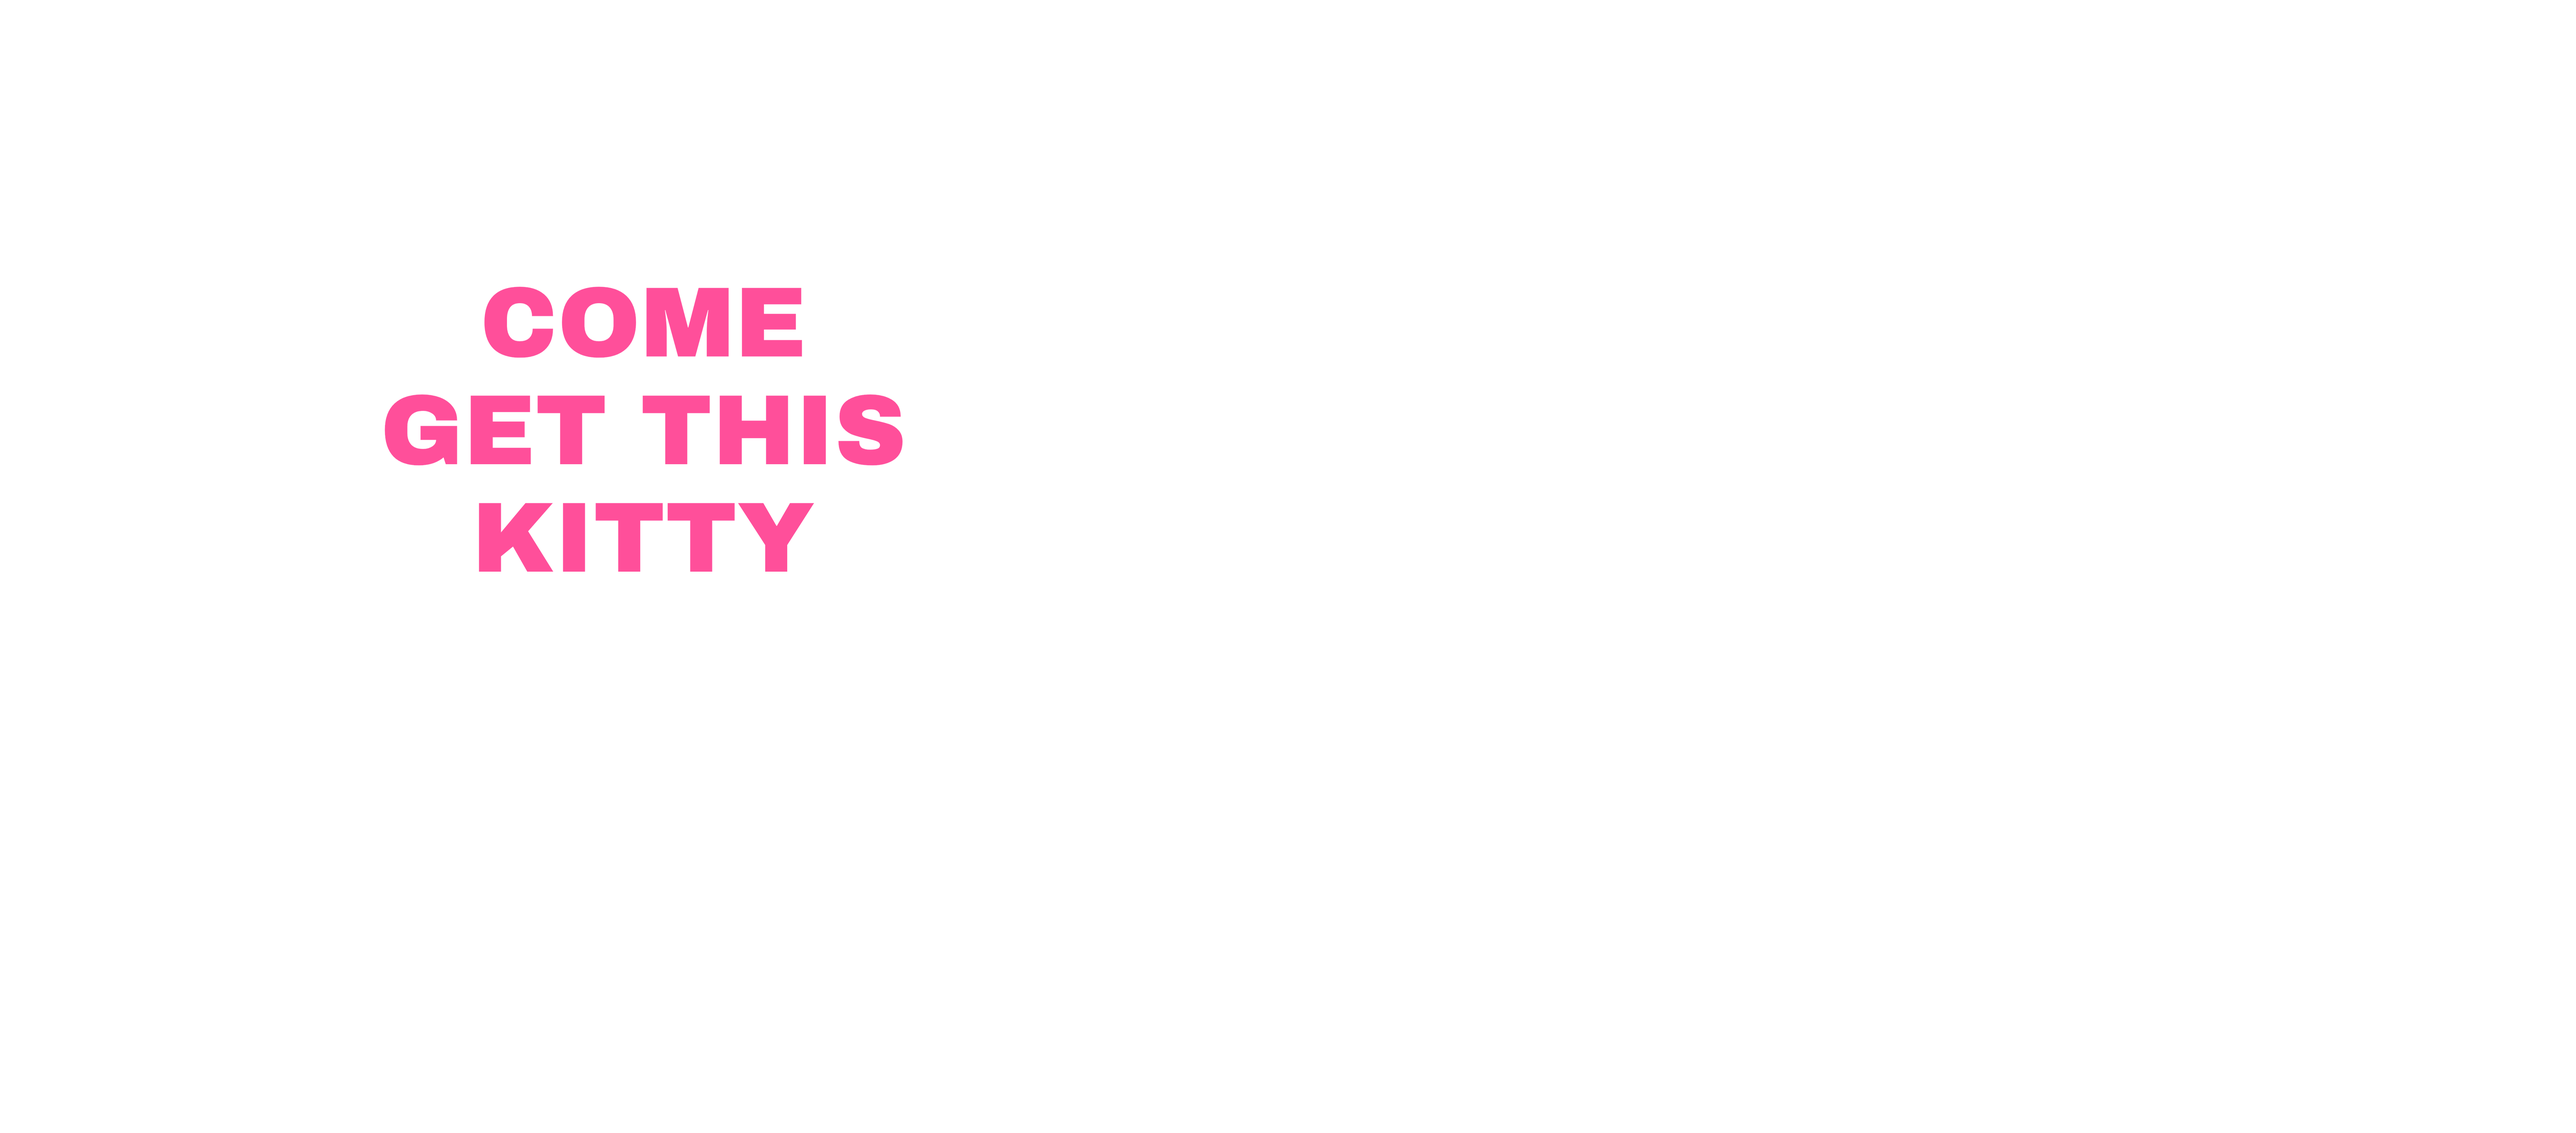
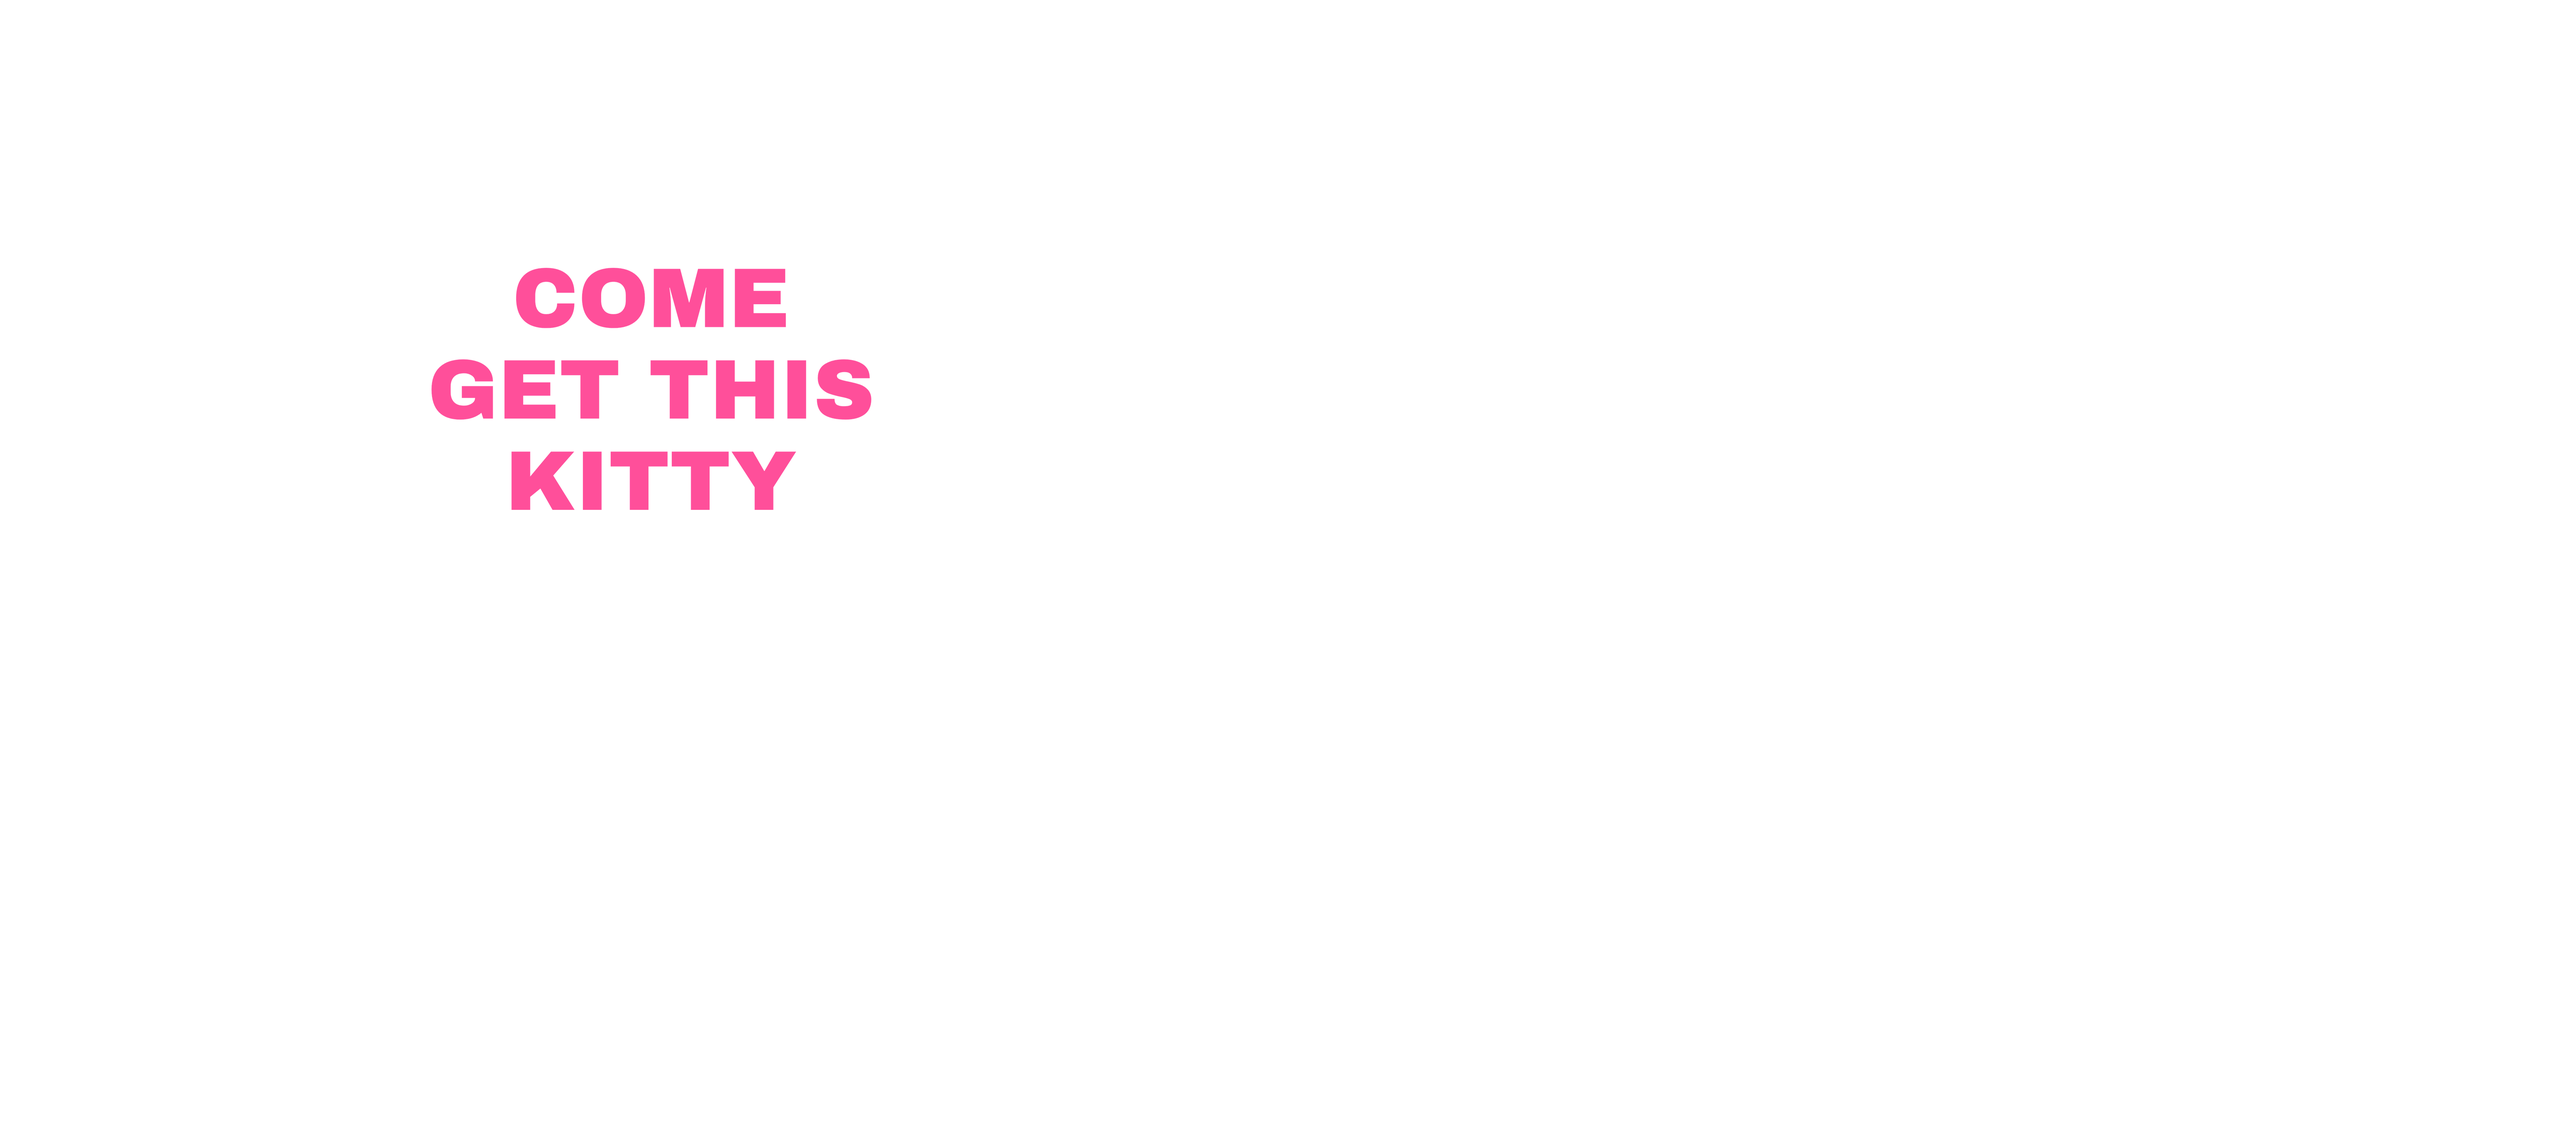
Refit string-bottom prints inside the safe area
Claude-Session: https://claude.ai/code/session_01M8mVGoRpEYRUtbqDWw9UdB

Changed region(s): [[0.1248, 0.2185, 0.3744, 0.4994]]

diff --git a/tools/panty_refit.py b/tools/panty_refit.py
@@ -1,0 +1,38 @@
+"""Refit every 669 string-bottom print inside Printful's dotted safe print area (front piece), as big as it will go."""
+import json, numpy as np
+from PIL import Image, ImageDraw, ImageFilter
+# Inside Printful's dotted "safe print area" on the front piece (measured from the template), upper part where text reads.
+POLY = [(1010, 780), (2740, 780), (2310, 1720), (1540, 1720)]
+pm = Image.new('L', (7500, 3300), 0); ImageDraw.Draw(pm).polygon(POLY, fill=255)
+SAFE = np.asarray(pm) > 0
+ys, xs = np.nonzero(SAFE)
+
+def place(txt, maxs=0.80):
+    """Largest scale <= maxs (and its position) so every ink pixel sits inside SAFE."""
+    al0 = np.asarray(txt.getchannel('A')) > 40
+    cx = int(xs.mean())
+    s = maxs
+    while s > 0.15:
+        w, h = round(txt.width * s), round(txt.height * s)
+        al = np.asarray(txt.getchannel('A').resize((w, h), Image.BILINEAR)) > 40
+        yy, xx = np.nonzero(al)
+        for top in [max(ys.min(), (ys.min() + ys.max()) // 2 - h // 2 - 120 + d) for d in range(0, 400, 20)]:
+            x0 = cx - w // 2
+            Y, X = yy + top, xx + x0
+            if X.min() < 0 or Y.max() >= 3300: break
+            if SAFE[Y, X].all(): return s, x0, top
+        s *= 0.96
+    raise SystemExit('cannot fit')
+
+if __name__ == '__main__':
+    import sys
+    D = json.load(open('/home/user/brand/tools/ck_designs_all.json'))
+    FAB = {'#FFFFFF': '#151515'}
+    for k, v in D.items():
+        if not v.get('panty'): continue
+        txt = Image.open(f'/home/user/brand/ck/print/{k}.png'); txt = txt.crop(txt.getbbox())
+        s, x0, top = place(txt)
+        r = txt.resize((round(txt.width * s), round(txt.height * s)), Image.LANCZOS)
+        c = Image.new('RGB', (7500, 3300), FAB.get(v['color'], '#FFFFFF')); c.paste(r, (x0, top), r)
+        c.save(f'/home/user/brand/ck/print/panty_669/{k}.png', dpi=(150, 150))
+        print(k, 'scale', round(s, 2), 'size', r.size)

diff --git a/NOTES.md b/NOTES.md
@@ -102,3 +102,4 @@
 - Panty model style (CherryKitten-like): light gray studio, chest-to-thigh, plain pastel tee, pulling side string. Photos: photos/panties_v3. Script: batch_panties.py
 - Panties show product photo first, model on hover.
 - NOTE: another Claude session rebuilt the store (Women/Men, lines, lib/taxonomy.ts). Use the repo's scripts/build_catalog.py, not the old tools copy.
+- String-bottom (669) prints must sit inside Printful's dotted safe area (front piece). tools/panty_refit.py fits each design as big as it goes. Product photos now 2000px (Printful max) -> 1600px web copies.
